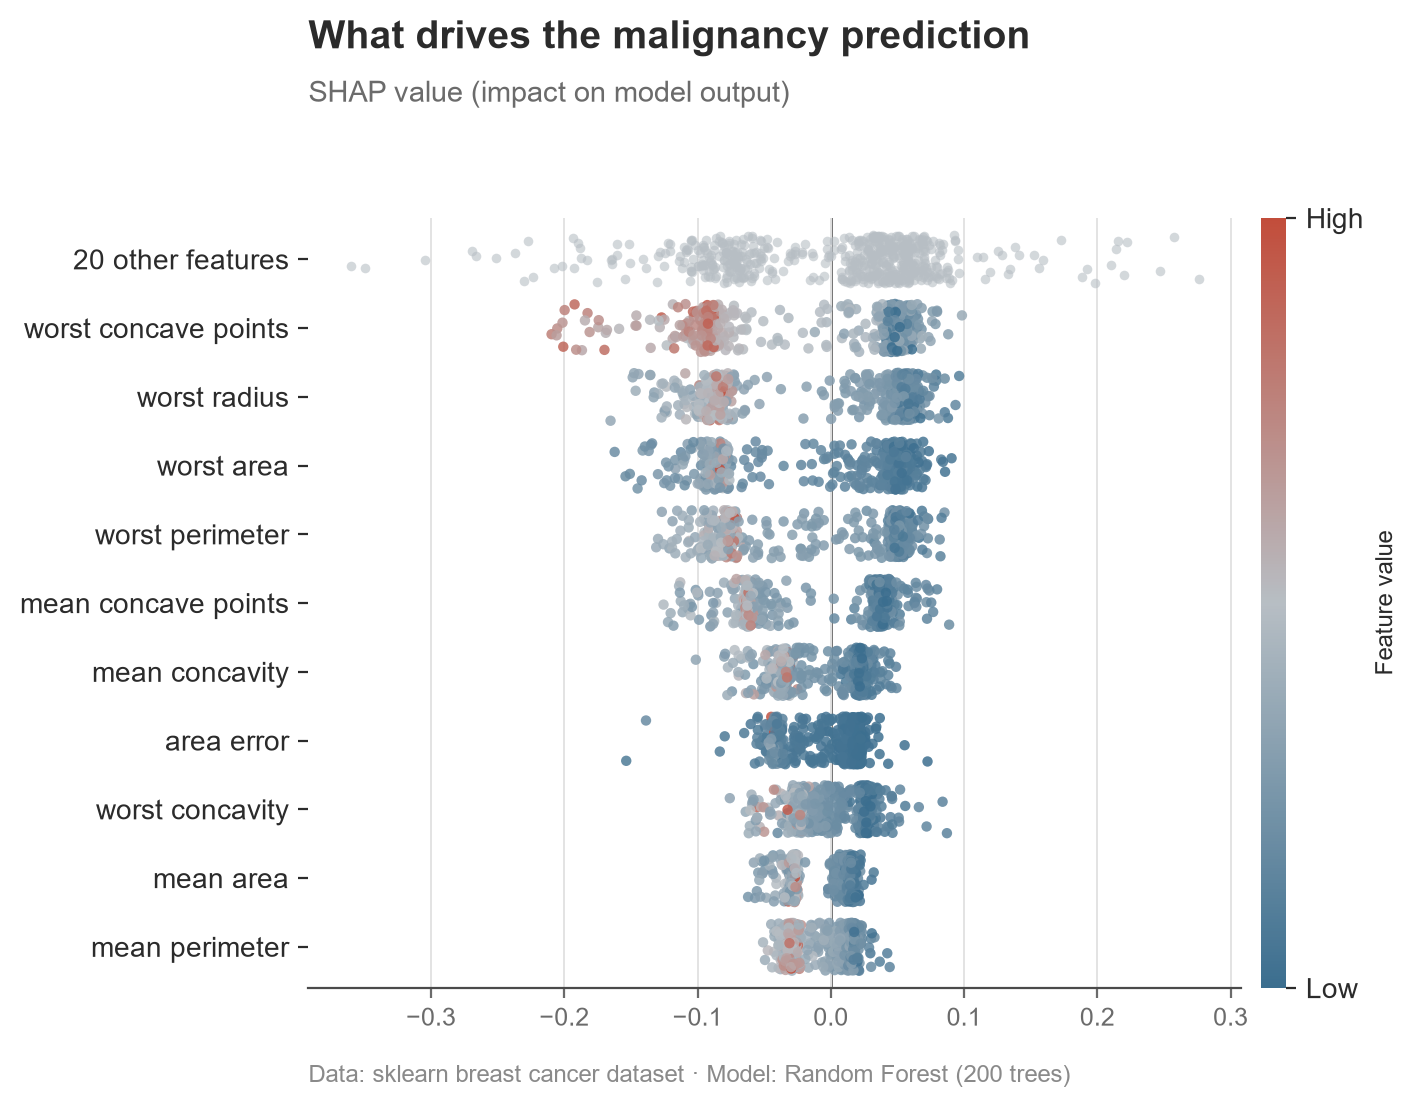
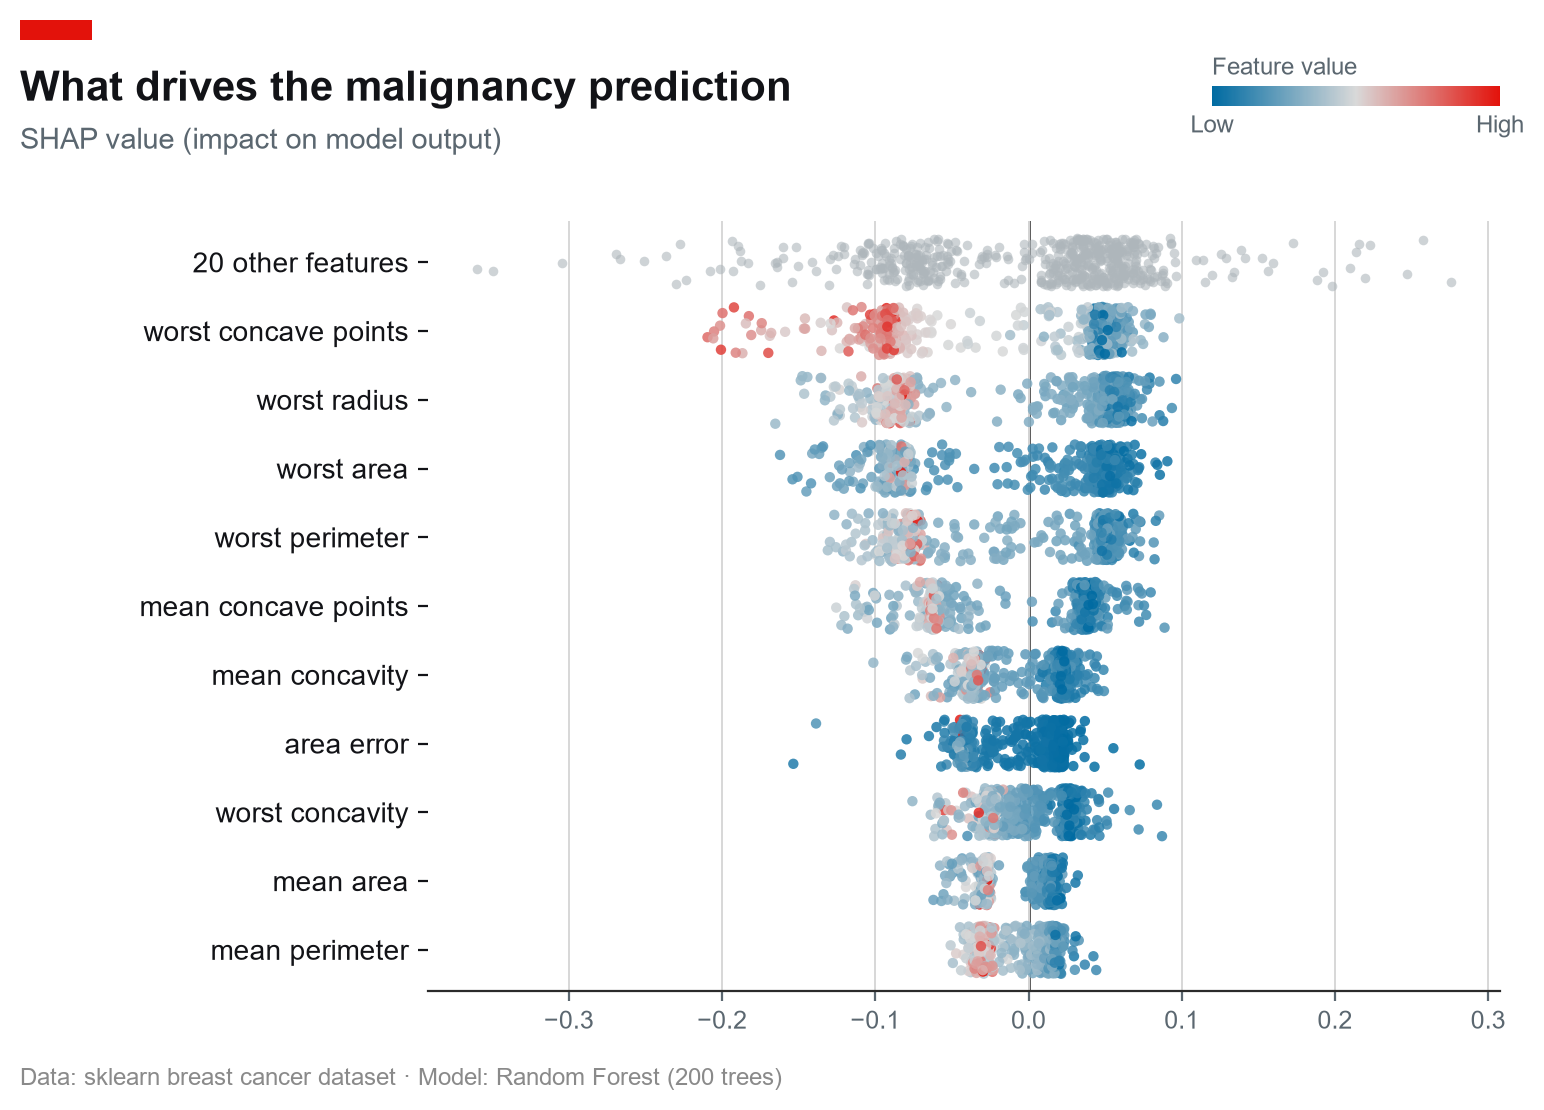
Restyle charts to The Economist theme
- Economist house palette (blue #006BA2 -> red #E3120B) for the feature scale
- Signature red corner tab + bold flush-left title block in finalize()
- Replace vertical colorbar + rotated label with a horizontal colour key
  (readability: no head-tilt), reclaiming right margin for a wider swarm
- Regenerate showcase image; update README and CLAUDE.md to match

diff --git a/src/shap_editorial/_theme.py b/src/shap_editorial/_theme.py
@@ -1,8 +1,15 @@
 """Editorial theme: colours, typography, and layout constants.
 
-This is a small, self-contained styling layer — no dependency on any
-other charting theme package. It exists to make SHAP output look like
-something you'd publish, not something you'd screenshot apologetically.
+The look is modelled on *The Economist*'s data-journalism style — a
+self-contained styling layer, no dependency on any other charting-theme
+package. It exists to make SHAP output look like something you'd publish,
+not something you'd screenshot apologetically.
+
+Signature Economist cues implemented here and in `_finalize.py`:
+- the small red brand tab in the top-left corner,
+- a bold, left-aligned title with a muted subtitle beneath it,
+- the Economist blue/red palette,
+- a bottom-left source line.
 """
 
 from __future__ import annotations
@@ -10,21 +17,24 @@ from __future__ import annotations
 import matplotlib.pyplot as plt
 
 # -- Palette -----------------------------------------------------------
-# A diverging low->high feature-value scale, distinct from SHAP's default
-# red/blue so charts don't look like an unstyled shap.summary_plot().
-C_LOW = "#3B6E8F"     # muted steel blue: low feature value
-C_HIGH = "#C24D3B"    # muted brick red: high feature value
-C_MID = "#B7BEC4"     # neutral grey, used for the zero-impact midpoint
+# The Economist's house colours. The low->high feature-value scale runs
+# from Economist blue through a light neutral to Economist red.
+C_ECON_RED = "#E3120B"   # the brand red — used for the corner tab
+C_LOW = "#006BA2"        # Economist blue: low feature value
+C_HIGH = "#E3120B"       # Economist red: high feature value
+C_MID = "#D9D9D9"        # neutral light grey: mid feature value
 
-C_SPINE = "#4A4A4A"
-C_GRID = "#E3E3E3"
-C_LABEL = "#2B2B2B"
-C_LABEL_MUTED = "#6B6B6B"
+C_SPINE = "#2B2B2B"
+C_GRID = "#D7D7D7"
+C_LABEL = "#121317"        # near-black, Economist body text
+C_LABEL_MUTED = "#5B6770"  # muted slate for subtitles
 C_SOURCE = "#8A8A8A"
 C_BG = "#FFFFFF"
-C_OTHER_BAR = "#B7BEC4"  # colour for the collapsed "N other features" row
+C_OTHER_BAR = "#AEB6BB"    # colour for the collapsed "N other features" row
 
-FONT_STACK = ["IBM Plex Sans", "Helvetica Neue", "Arial", "DejaVu Sans"]
+# Economist headline/body faces aren't redistributable, so we lead with
+# their names and fall back to a clean, widely-available sans.
+FONT_STACK = ["Econ Sans Cnd", "Officina Sans", "Helvetica Neue", "Arial", "DejaVu Sans"]
 
 
 def set_theme() -> None:

diff --git a/src/shap_editorial/_finalize.py b/src/shap_editorial/_finalize.py
@@ -2,32 +2,54 @@
 
 from __future__ import annotations
 
-from ._theme import C_LABEL, C_LABEL_MUTED, C_SOURCE
+from matplotlib.patches import Rectangle
+
+from ._theme import C_ECON_RED, C_LABEL, C_LABEL_MUTED, C_SOURCE
 
 
 def finalize(fig, ax, *, title=None, subtitle=None, source=None):
-    """Add a left-aligned title stack above the axes and a source line below.
+    """Add the Economist-style title block above the axes and a source line below.
 
-    Positions are figure-relative so this behaves consistently regardless
-    of figure size. Call this last, after all plotting is done, since it
-    reads the current axes position to place text sensibly.
+    Draws the signature red corner tab, then a bold left-aligned title and a
+    muted subtitle beneath it, then an optional source line at the bottom left.
+    Positions are figure-relative so this behaves consistently regardless of
+    figure size. Call this last, after all plotting is done.
+
+    The title block is set flush-left with the whole graphic (Economist
+    convention), not indented to the plot area, so it sits above the y-axis
+    category labels rather than to the right of them.
     """
-    pos = ax.get_position()
-    left = pos.x0
+    left = 0.025
 
-    y = 0.98
+    # Economist signature: a small red tab in the top-left corner.
+    tab_w, tab_h = 0.045, 0.018
+    tab_y = 0.965
+    fig.add_artist(
+        Rectangle(
+            (left, tab_y),
+            tab_w,
+            tab_h,
+            transform=fig.transFigure,
+            facecolor=C_ECON_RED,
+            edgecolor="none",
+            clip_on=False,
+            zorder=5,
+        )
+    )
+
+    y = tab_y - 0.028
     if title:
         fig.text(
             left,
             y,
             title,
-            fontsize=14,
+            fontsize=15,
             fontweight="bold",
             color=C_LABEL,
             ha="left",
             va="top",
         )
-        y -= 0.055
+        y -= 0.052
 
     if subtitle:
         fig.text(

diff --git a/src/shap_editorial/_beeswarm.py b/src/shap_editorial/_beeswarm.py
@@ -8,7 +8,16 @@ from matplotlib.colors import LinearSegmentedColormap
 from matplotlib.cm import ScalarMappable
 
 from ._finalize import finalize
-from ._theme import C_GRID, C_HIGH, C_LOW, C_MID, C_OTHER_BAR, C_SPINE, set_theme
+from ._theme import (
+    C_GRID,
+    C_HIGH,
+    C_LABEL_MUTED,
+    C_LOW,
+    C_MID,
+    C_OTHER_BAR,
+    C_SPINE,
+    set_theme,
+)
 from ._utils import extract_explanation, top_feature_order
 
 _CMAP = LinearSegmentedColormap.from_list("shap_editorial", [C_LOW, C_MID, C_HIGH])
@@ -135,16 +144,21 @@ def beeswarm(
     ax.grid(axis="x", color=C_GRID, linewidth=0.7, zorder=-1)
     ax.set_axisbelow(True)
 
-    # Slim colour legend: Low -> High feature value.
+    fig.subplots_adjust(top=0.80, left=0.28, right=0.95, bottom=0.10)
+
+    # Horizontal colour key at the top: Low -> High feature value. A
+    # horizontal bar with horizontal labels reads better than a vertical
+    # colorbar with a rotated axis label (which forces a head-tilt).
     sm = ScalarMappable(cmap=_CMAP)
     sm.set_array([])
-    cbar = fig.colorbar(sm, ax=ax, fraction=0.04, pad=0.02, aspect=30)
+    cax = fig.add_axes([0.77, 0.905, 0.18, 0.018])
+    cbar = fig.colorbar(sm, cax=cax, orientation="horizontal")
     cbar.set_ticks([0, 1])
     cbar.set_ticklabels(["Low", "High"])
-    cbar.set_label("Feature value", fontsize=8.5)
+    cbar.ax.tick_params(length=0, labelsize=8.5, colors=C_LABEL_MUTED)
     cbar.outline.set_visible(False)
+    cax.set_title("Feature value", fontsize=8.5, color=C_LABEL_MUTED, loc="left", pad=4)
 
-    fig.subplots_adjust(top=0.80, left=0.28, right=0.90, bottom=0.10)
     finalize(fig, ax, title=title, subtitle=subtitle, source=source)
 
     return fig, ax

diff --git a/README.md b/README.md
@@ -20,7 +20,7 @@
   <img src="examples/beeswarm_output.png" alt="Editorial beeswarm plot of SHAP values" width="720">
 </p>
 
-<p align="center"><em>One <code>beeswarm()</code> call — title, subtitle, source line, and a distinct palette, ready to publish.</em></p>
+<p align="center"><em>One <code>beeswarm()</code> call — <em>The Economist</em>-style red tab, title block, house palette, and a horizontal colour key, ready to publish.</em></p>
 
 ## What it is
 
@@ -43,9 +43,10 @@ manual rework in another tool. This package removes that step.
 
 |                        | `shap.summary_plot()`         | `shap_editorial.beeswarm()`               |
 | ---------------------- | ----------------------------- | ----------------------------------------- |
-| Typography             | matplotlib defaults           | Editorial font stack, sized hierarchy     |
-| Title / subtitle       | none / jargon axis label      | Left-aligned title, plain-language subtitle |
-| Colour palette         | SHAP red/blue                 | Distinct muted steel-blue → brick-red     |
+| Typography             | matplotlib defaults           | Economist-style font stack, sized hierarchy |
+| Title / subtitle       | none / jargon axis label      | Red corner tab, bold flush-left title, plain-language subtitle |
+| Colour palette         | SHAP red/blue                 | *The Economist*'s house blue → red          |
+| Colour key             | vertical bar, rotated label   | Horizontal key, horizontal labels           |
 | Source / attribution   | none                          | Optional source line                      |
 | Cross-chart consistency| varies by plot type           | Shared theme + finalize layer             |
 

diff --git a/CLAUDE.md b/CLAUDE.md
@@ -72,11 +72,15 @@ Design choices worth knowing:
   quantity and was a real bug caught during initial testing. Don't
   reintroduce a mean-based aggregation here.
 - **Colour scale is per-feature min-max normalized** (`_norm()` inside
-  `_beeswarm.py`), matching SHAP's own convention, but using a distinct
-  palette (muted steel blue → brick red) so output doesn't look like an
-  unstyled `shap.summary_plot()`.
-- **Theme is self-contained**, no dependency on any other chart-styling
-  package. Palette and font stack live in `_theme.py` only.
+  `_beeswarm.py`), matching SHAP's own convention, but using *The
+  Economist*'s house palette (Economist blue `#006BA2` → neutral →
+  Economist red `#E3120B`) so output doesn't look like an unstyled
+  `shap.summary_plot()`.
+- **Theme is modelled on *The Economist*'s data-journalism style** and is
+  self-contained — no dependency on any other chart-styling package.
+  Palette, font stack, and the signature red corner tab live in
+  `_theme.py` / `_finalize.py` only. Every chart type gets the tab and
+  title block for free via `finalize()`.
 
 ## Testing conventions
 
